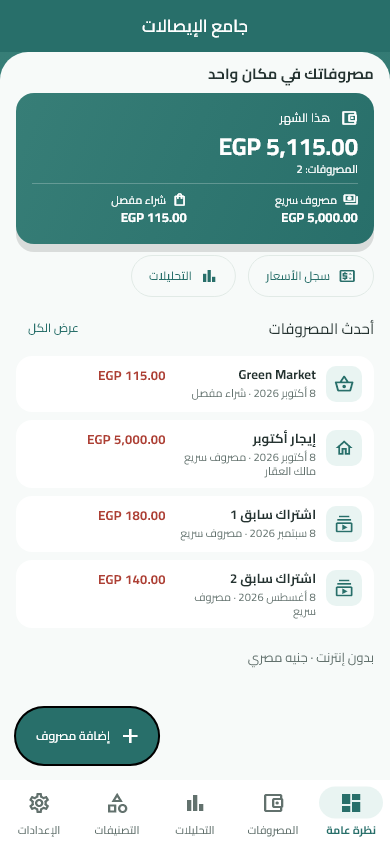
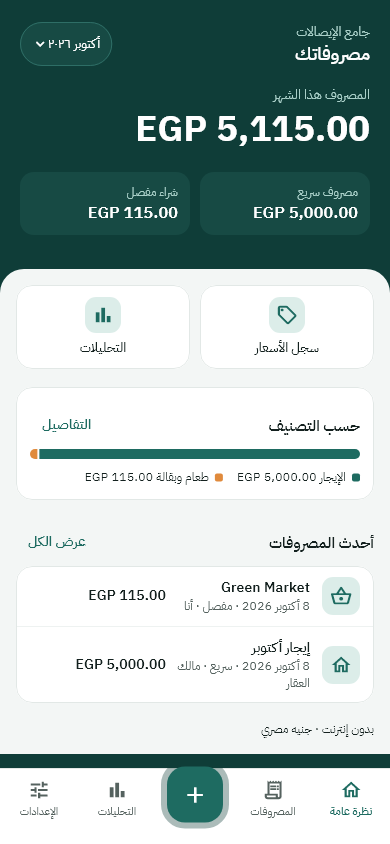
Publish all-version download index and 1.5.0 screenshots

diff --git a/README.md b/README.md
@@ -30,7 +30,7 @@ Install updates over the existing app to preserve your data. **Do not uninstall 
 
 ## Screenshots
 
-App previews from version 1.4.1 using fictional sample expenses.
+App previews from version 1.5.0 using fictional sample expenses.
 
 | Overview | Expenses | Spending over time |
 | --- | --- | --- |
@@ -42,7 +42,31 @@ App previews from version 1.4.1 using fictional sample expenses.
 
 ## Version history
 
-Versions below describe the app's development history. Version **1.4.1** is the first APK published in this GitHub repository; earlier APKs have not been uploaded here.
+All seven versions are preserved as separate releases, each with its original APK and checksum. **1.5.0** is the latest release. Older builds are available for reference; Android normally prevents installing an older build over a newer one.
+
+| Version | Download | Changes |
+| --- | --- | --- |
+| 1.5.0 | [APK](https://github.com/MohamedSamehMohamed/ReceiptCollecter/releases/download/v1.5.0/receipt-collecter.apk) | [Release notes](https://github.com/MohamedSamehMohamed/ReceiptCollecter/releases/tag/v1.5.0) |
+| 1.4.1 | [APK](https://github.com/MohamedSamehMohamed/ReceiptCollecter/releases/download/v1.4.1/receipt-collecter.apk) | [Release notes](https://github.com/MohamedSamehMohamed/ReceiptCollecter/releases/tag/v1.4.1) |
+| 1.4.0 | [APK](https://github.com/MohamedSamehMohamed/ReceiptCollecter/releases/download/v1.4.0/receipt-collecter-1.4.0.apk) | [Release notes](https://github.com/MohamedSamehMohamed/ReceiptCollecter/releases/tag/v1.4.0) |
+| 1.3.0 | [APK](https://github.com/MohamedSamehMohamed/ReceiptCollecter/releases/download/v1.3.0/receipt-collecter-1.3.0.apk) | [Release notes](https://github.com/MohamedSamehMohamed/ReceiptCollecter/releases/tag/v1.3.0) |
+| 1.2.0 | [APK](https://github.com/MohamedSamehMohamed/ReceiptCollecter/releases/download/v1.2.0/receipt-collecter-1.2.0.apk) | [Release notes](https://github.com/MohamedSamehMohamed/ReceiptCollecter/releases/tag/v1.2.0) |
+| 1.1.0 | [APK](https://github.com/MohamedSamehMohamed/ReceiptCollecter/releases/download/v1.1.0/receipt-collecter-1.1.0.apk) | [Release notes](https://github.com/MohamedSamehMohamed/ReceiptCollecter/releases/tag/v1.1.0) |
+| 1.0.0 | [APK](https://github.com/MohamedSamehMohamed/ReceiptCollecter/releases/download/v1.0.0/receipt-collecter-1.0.0.apk) | [Release notes](https://github.com/MohamedSamehMohamed/ReceiptCollecter/releases/tag/v1.0.0) |
+
+
+### 1.5.0 — Complete UI redesign
+
+- Bundled IBM Plex Sans Arabic and centralized light/dark design tokens.
+- Added four navigation destinations around a raised center + button and a new Add sheet with safe repeat actions.
+- Redesigned Overview with month selection, category mix and recent expenses.
+- Added searchable expense lists with type/default-buyer filters and daily groups.
+- Added buyer chips, inline buyer creation, a quick-expense category grid, and sticky save controls.
+- Redesigned Insights with monthly bars, breakdown tabs and a buyer/category grid.
+- Redesigned Price history with item chips, ranges, purchase bars and receipt links.
+- Added persistent System/Light/Dark selection in Settings and separate Categories, Buyers, and Stores/payees management pages.
+- Preserved the database schema and JSON formats. Scan review remains deferred.
+- Validation: clean Flutter analysis, all 53 tests passed, and Arabic/English light/dark previews at 1.3× text.
 
 ### 1.4.1 — More expenses per screen
 
